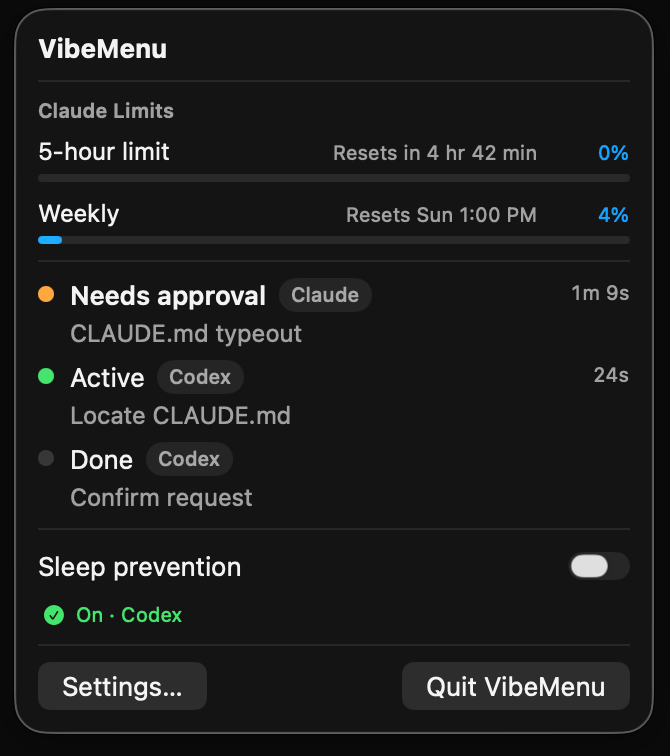
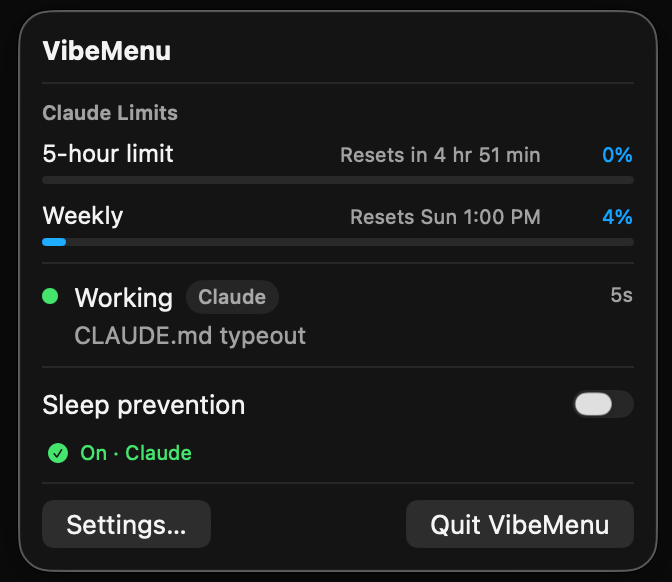
Refresh README screenshots and accessibility text

diff --git a/docs/DEVELOPMENT_LOG.md b/docs/DEVELOPMENT_LOG.md
@@ -4746,3 +4746,18 @@ build or tests were run because only Markdown and public image assets changed, a
 code, dependency, product behavior, network/privacy boundary, `CLAUDE.md`, or separate repository was
 changed. Recommended next step: review the README on GitHub after publication to confirm the final
 desktop and mobile visual balance.
+
+## 2026-08-03 — Refresh README menu capture and rebalance Settings image
+
+Replaced `docs/assets/vibemenu-menu.png` with the latest direct owner-supplied menu capture
+(`Screenshot 2026-08-03 at 10.18.47.png`), re-encoded without source metadata. Updated its README
+alt text to match the visible Claude limits, active Claude session, and Claude-owned sleep assertion.
+Reduced the Settings image's README render width from 680 to 480 pixels while keeping the asset
+itself unchanged. The README structure, copy, and animated demo were otherwise untouched.
+
+**Validation.** Confirmed all four README image paths resolve; inspected the replacement menu image;
+confirmed the menu renders at 520 pixels and Settings at 480 pixels; and verified the demo GIF retained
[1 lines of base64/hex data omitted]
+`git diff --check` passed before this entry and was rerun for the final handoff. No Swift build or tests
+were run because this change affects only README presentation and a public image asset. No errors were
+encountered. Recommended next step: confirm the relative screenshot balance in GitHub's rendered README.

diff --git a/README.md b/README.md
@@ -37,7 +37,7 @@ Optionally show locally available Claude and ChatGPT usage-limit windows in the 
 The menu reports the real sleep assertion and its active owners in a fixed order: **Manual → Claude → Codex → ChatGPT Work**. An optional thermal row shows macOS's coarse thermal state so you can see when the system is under pressure.
 
 <p align="center">
-  <img src="docs/assets/vibemenu-menu.png" alt="VibeMenu menu showing Claude limits, recent Claude and Codex sessions, and Codex-owned sleep prevention" width="520">
+  <img src="docs/assets/vibemenu-menu.png" alt="VibeMenu menu showing Claude limits, an active Claude session, and Claude-owned sleep prevention" width="520">
 </p>
 
 ## Local by design
@@ -47,7 +47,7 @@ Everything stays on your Mac. VibeMenu has no account, backend, telemetry, analy
 Optional session and usage features read a narrow allowlist of locally available metadata and fail closed when a trustworthy value is unavailable. See the full [privacy model](docs/PRIVACY.md).
 
 <p align="center">
-  <img src="docs/assets/vibemenu-settings.png" alt="VibeMenu Settings with controls for launch at login, notifications, thermal status, session rows, Claude, and ChatGPT" width="680">
+  <img src="docs/assets/vibemenu-settings.png" alt="VibeMenu Settings with controls for launch at login, notifications, thermal status, session rows, Claude, and ChatGPT" width="480">
 </p>
 
 ## Install
